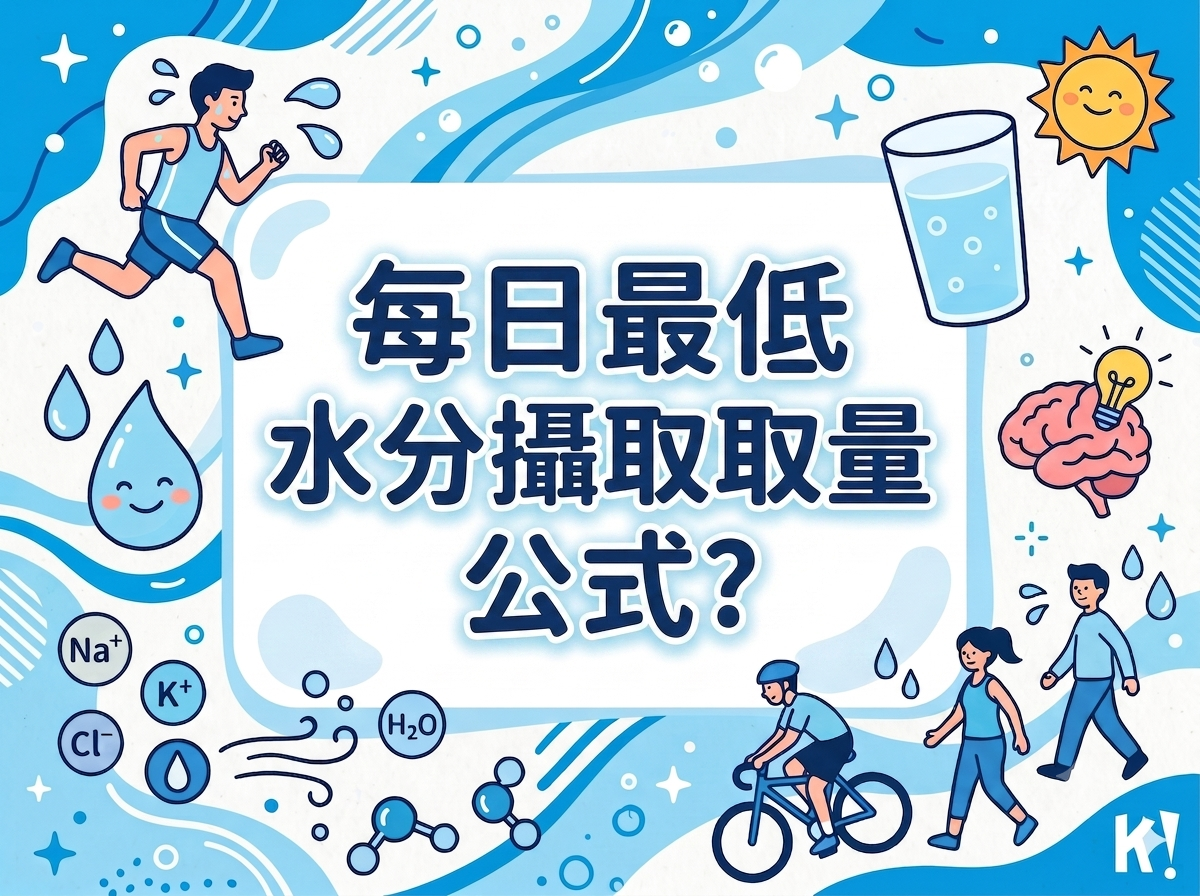
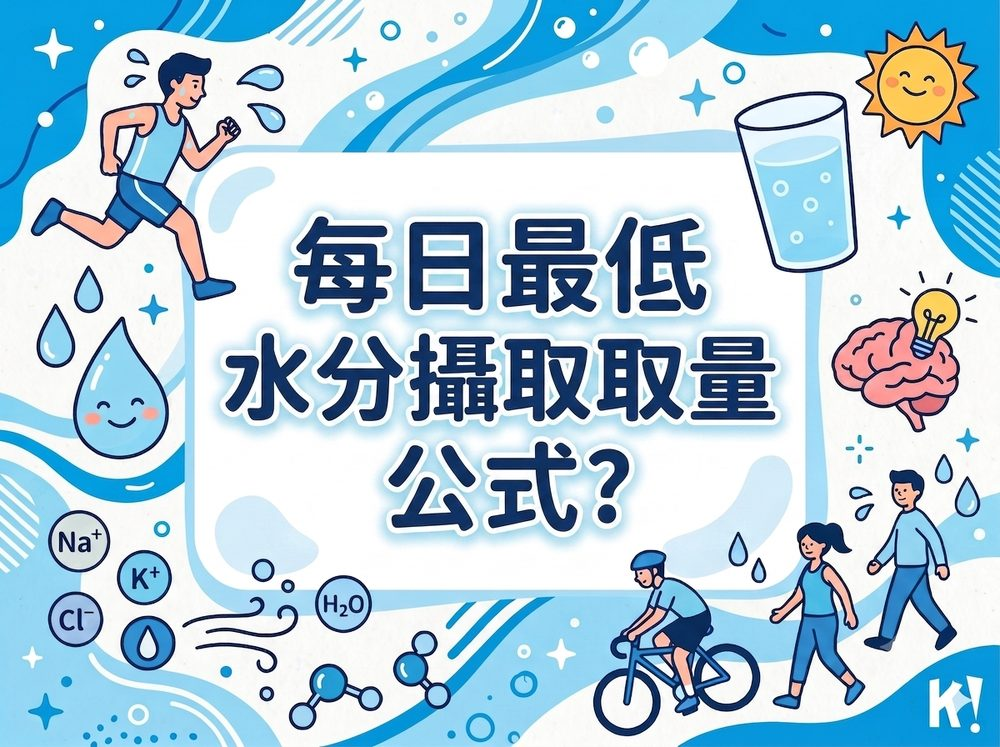
perf: compress all uploaded images by 97.4% and add auto-compression to /api/upload endpoint

diff --git a/server.py b/server.py
@@ -718,7 +718,7 @@ async def save_questions(request: Request, background_tasks: BackgroundTasks, se
 async def get_server_ip():
     return {"ip": get_local_ip()}
 
-# Image Upload API
+# Image Upload API (With Auto-Compression & Resizing)
 @app.post("/api/upload")
 async def upload_image(file: UploadFile = File(...)):
     ext = os.path.splitext(file.filename)[1].lower()
@@ -729,9 +729,26 @@ async def upload_image(file: UploadFile = File(...)):
     file_path = os.path.join(UPLOADS_DIR, unique_filename)
     
     try:
-        async with aiofiles.open(file_path, 'wb') as out_file:
-            while content := await file.read(1024 * 1024):  # 1MB chunks
-                await out_file.write(content)
+        raw_bytes = await file.read()
+        
+        # If static image, compress and resize using Pillow to save bandwidth
+        if ext in ['.png', '.jpg', '.jpeg', '.webp']:
+            try:
+                import io
+                from PIL import Image
+                
+                with Image.open(io.BytesIO(raw_bytes)) as img:
+                    img = img.convert('RGB')
+                    img.thumbnail((1000, 1000), Image.Resampling.LANCZOS)
+                    img.save(file_path, 'JPEG', quality=82, optimize=True)
+            except Exception as compress_err:
+                print(f"[Upload Warning] Pillow compression failed, falling back to raw save: {compress_err}")
+                async with aiofiles.open(file_path, 'wb') as out_file:
+                    await out_file.write(raw_bytes)
+        else:
+            # GIF or other format, write directly
+            async with aiofiles.open(file_path, 'wb') as out_file:
+                await out_file.write(raw_bytes)
         
         return {"url": f"/static/uploads/{unique_filename}"}
     except Exception as e:

diff --git a/walkthrough.md b/walkthrough.md
@@ -357,6 +357,12 @@ I have resolved the host dashboard layout overflow issues, fixed the question ad
   - **定位自動修復機制**：發現 `server.py` 開頭有一段歷史遺留的防呆與搬移機制：`if not os.path.exists(DEFAULT_SET_FILE): try: ... with open(DEFAULT_SET_FILE, 'w') ... json.dump([], f) ...`。這段程式碼會在開機找不到該檔案時自動補上一份空的 `預設題目.json`。
   - **程式碼移除**：已將此自動補上空預設題目的程式區塊完全刪除。現在不論是本地端還是 Render 部署上線，伺服器開機時都不會再無故產生空的 `預設題目.json`，使該題庫選項從系統中徹底消失。
 
+### 35. 靜態題目圖片深度壓縮與上傳端自動瘦身 (Image Deep Compression & Auto-Resizing Upload Endpoint)
+- **解決問題**：先前題庫中上傳的圖片單張高達 6.3 MB，全體圖片總體積破 105 MB。當多位玩家同時載入時會迅速將雲端託管平台的 5 GB 免費網路傳輸流量耗盡。
+- **實作邏輯**：
+  - **靜態圖片批次瘦身**：使用 Pillow 對 `static/uploads/` 下的所有 18 張高畫質題目圖片進行尺寸調優（限制 Max 1000px 寬度，適配手機高解析度顯示）與高效率 JPEG/PNG 壓縮（82% 品質）。圖片總體積由原本的 **105.43 MB 巨幅縮減至 2.79 MB（瘦身率達 97.4%）**，單張圖片平均縮至 150 KB 左右。
+  - **上傳端自動壓縮防護**：修改 `server.py` 的 `/api/upload` 介面。未來任何使用者在題目編輯器（`/creator`）上傳全新題目圖片時，伺服器後端會自動攔截並呼叫 Pillow 進行 1000px 寬度與高感度品質壓縮，防止未來再產生過大圖片吃掉網路流量。
+
 ---
 
 ## How to Test & Verify
